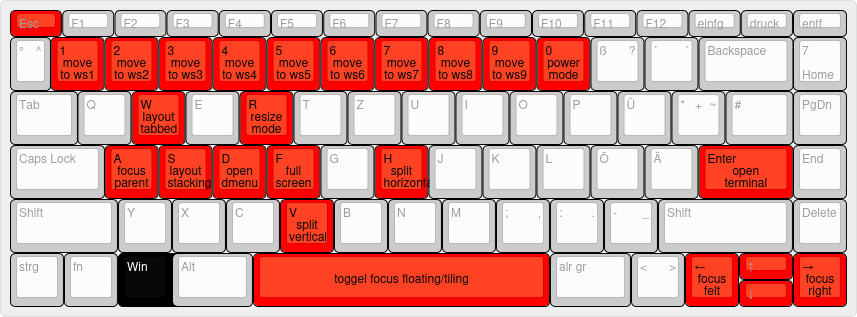
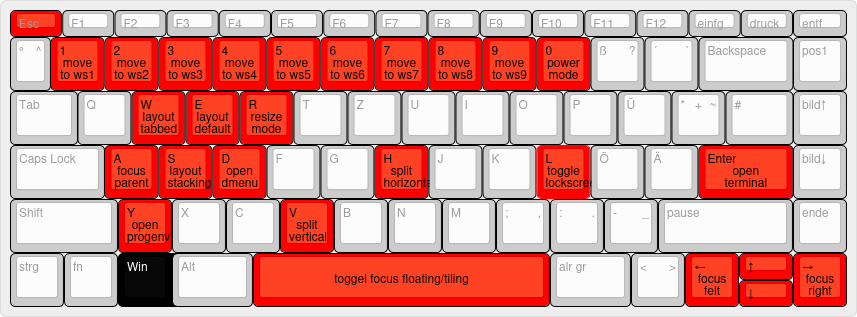
add. things from the TODO

diff --git a/open_work_environment.py b/open_work_environment.py
@@ -1,0 +1,43 @@
+#!/usr/bin/env python3
+import i3ipc
+import time
+
+# Verbindung zu i3 herstellen
+i3 = i3ipc.Connection()
+
+def wait_for_window(class_name, timeout=15):
+    """Warte, bis ein Fenster mit einer bestimmten Klasse auftaucht."""
+    start = time.time()
+    while time.time() - start < timeout:
+        for win in i3.get_tree().leaves():
+            if win.window_class and class_name.lower() in win.window_class.lower():
+                return win
+        time.sleep(0.2)
+    return None
+
+def open_workenvironment():
+    print("Starting VSCode...")
+    i3.command("exec code")
+    code_win = wait_for_window("Code")
+    if code_win:
+        i3.command(f'[con_id="{code_win.id}"] move to workspace number 1')
+        print("VSCode window found and moved.")
+
+    print("Starting Firefox...")
+    i3.command("exec firefox")
+    ff_win = wait_for_window("Firefox")
+    if ff_win:
+        i3.command(f'[con_id="{ff_win.id}"] move to workspace number 2')
+        print("Firefox window found and moved.")
+
+    print("Starting Nautilus...")
+    i3.command("exec nautilus")
+    naut_win = wait_for_window("Nautilus")
+    if naut_win:
+        i3.command(f'[con_id="{naut_win.id}"] move to workspace number 3')
+        print("Nautilus window found and moved.")
+
+    print("Work environment ready 🚀")
+
+if __name__ == "__main__":
+    open_workenvironment()

diff --git a/README.md b/README.md
@@ -34,15 +34,15 @@ The missing bindsyms are:
 ## i3 config shortcuts
 | Key Combination   | Command             | Description                   |
 |------------------|----------------------|-------------------------------|
-| $mod+Shift+c     | reload               | Reload i3 config              |
 | $mod+Shift+r     | restart              | Restart i3                    |
 | $mod+Shift+e     | exec "i3-nagbar ..." | Exit i3 (with confirmation)   |
 
 ## Application shortcuts
-| Key Combination | Command                        | Description           |
-|-----------------|--------------------------------|-----------------------|
-| $mod+d          | exec --no-startup-id dmenu_run | Open program launcher |
-| $mod+Return     | exec i3-sensible-terminal      | Open terminal         |
+| Key Combination | Command                             | Description           |
+|-----------------|-------------------------------------|-----------------------|
+| $mod+d          | exec --no-startup-id dmenu_run      | Open program launcher |
+| $mod+Return     | exec i3-sensible-terminal           | Open terminal         |
+| $mod+y          | exec [...]open_work_environment.py  | Open programs for programming         |
 
 ## Set fn keys
 | Key | Actual called key    | Command                                   | Description                       |
@@ -84,7 +84,6 @@ The missing bindsyms are:
 |------------------|---------------------|----------------------------------|
 | $mod+h           | split h             | Split horizontally               |
 | $mod+v           | split v             | Split vertically                 |
-| $mod+f           | fullscreen toggle   | Toggle fullscreen                |
 | $mod+s           | layout stacking     | Stacked window layout            |
 | $mod+w           | layout tabbed       | Tabbed window layout             |
 | $mod+e           | layout toggle split | Toggle split layout              |
@@ -137,10 +136,13 @@ The missing bindsyms are:
 - use 'xev | grep keycode' to get the keycode for binding the fn keys
 
 # TODO
-- Check if sound works via HDMI and if lockscreen starts when whatching something
-- Add Key combination for opening VScode, firefox and nautilus and all together
+- Check if sound works via HDMI
+- add toggle lockscreen
 
-- Add buttons for these programms in the i3bars
+- add toggle for gap size
+
+- use polybar
+- Add buttons for some programms in the i3bars
 - Add the currently open windows to the workspaces in the i3bar
 - add volume and bluetooth to i3bar
 
